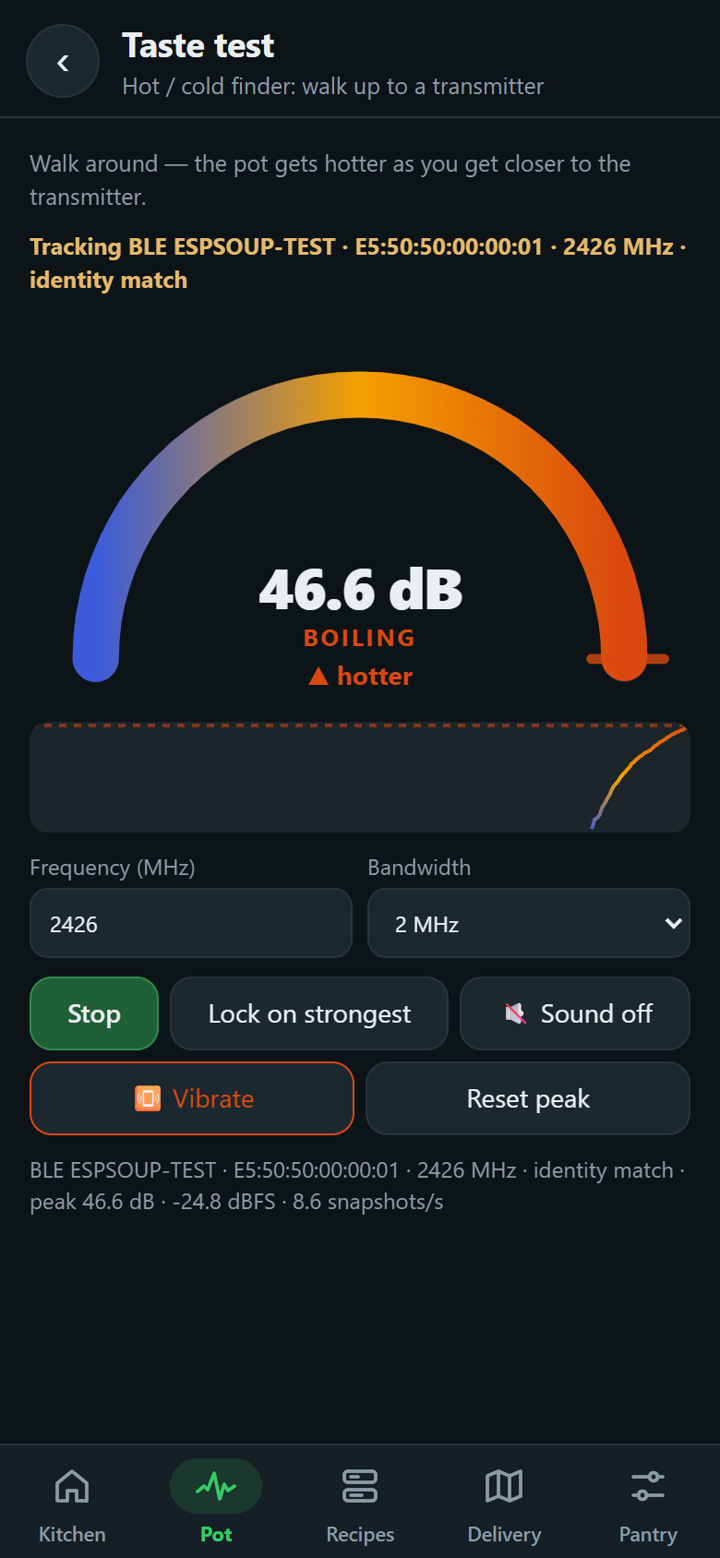
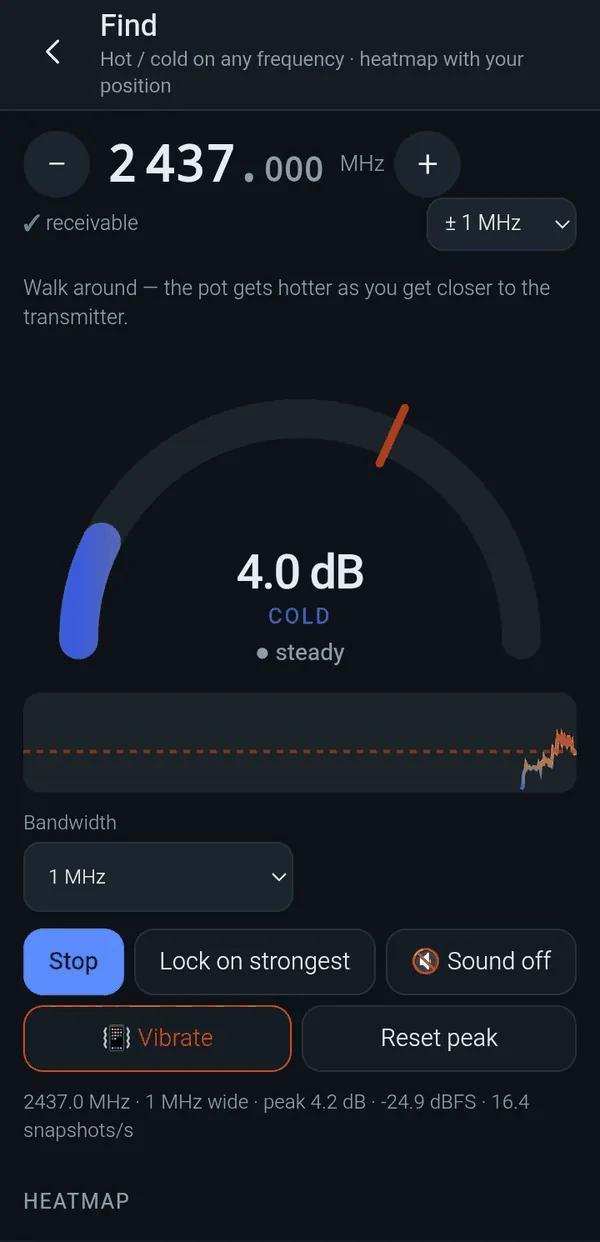
README: TV tool, new interface, colour, current status
New four-tab interface (Scan, Spectrum, Tools, Device), ESPsoup TV with
channel tables and rough colour, honest what-works table, firmware notes,
measuring tip. Screenshots replaced with the 0.12.2 interface.

Claude-Session: https://claude.ai/code/session_015VQQSR9m4bcAb5GdRP2dKC

diff --git a/README.md b/README.md
@@ -6,7 +6,7 @@
 <p align="center"><b>Scoop signals from the frequency soup.</b><br>
 A receive-only radio scanner app for the ESP32-C5 — Android, Windows and the browser.</p>
 
-<p align="center"><i>🍲 Private preview — not released yet.</i></p>
+<p align="center"><i>🍲 Preview · app 0.12.2 · the web app is live, Android and Windows apps are coming soon.</i></p>
 
 <p align="center">
   <a href="https://app.espsoup.com/"><img src="https://img.shields.io/badge/web%20app-app.espsoup.com-e8590c" alt="Web app"></a>
@@ -19,65 +19,152 @@ A receive-only radio scanner app for the ESP32-C5 — Android, Windows and the b
 
 The air around you is a soup of radio signals. ESPsoup turns a cheap **ESP32-C5** board, plugged into your phone or PC by USB,
 into a pocket spectrum scanner for the **2.4 GHz and 5 GHz bands**. It shows what's cooking and scoops out whatever it can decode —
-Bluetooth, Wi-Fi, Zigbee, Thread, drones, mobile cells, FPV video and more. Everything is decoded locally on your device, and ESPsoup never transmits.
+Bluetooth, Wi-Fi, Zigbee, Thread, drones, mobile cells, cars (ITS-G5) and live analog FPV video on its own little TV.
+Everything is decoded locally on your device, and ESPsoup never transmits.
 
-## Screenshots
+## Four tabs, two or three taps
 
-| Kitchen | Bluetooth + tracker warning | Drone Remote ID |
-|---|---|---|
-| <img src="assets/screenshots/kitchen.png" width="250"> | <img src="assets/screenshots/ble-tracker.png" width="250"> | <img src="assets/screenshots/remote-id.png" width="250"> |
-| *“Stir the pot” scans every recipe into one dashboard* | *Sensors, beacons and an AirTag “following you?” warning* | *Drone serial number, position, height, speed* |
+The 0.12 interface has four areas. Every function is at most two or three taps away.
 
-| Find (hot/cold) | Mobile cells | Signal classifier |
-|---|---|---|
-| <img src="assets/screenshots/find.png" width="250"> | <img src="assets/screenshots/lte-cell.png" width="250"> | <img src="assets/screenshots/classify.png" width="250"> |
-| *Walk up to one specific device, matched by its ID* | *LTE / 5G cell ID, bandwidth, signal quality* | *“What is this?” — LoRa, FSK, OFDM, radar …* |
-
-| Analog FPV video, assembled from snapshots | Live video (preview of an upcoming feature) |
+| Tab | What's in it |
 |---|---|
-| <img src="assets/screenshots/fpv-fullscreen.png" width="400"> | <img src="assets/screenshots/live-video.gif" width="300"> |
-| *5.8 GHz FPV test picture in fullscreen* | *FM video demodulated on the ESP32 itself, ~25 frames/s* |
+| **Scan** | Type a signal type (*ELRS*, *AirTag*, *HDZero* …) and search it in one tap — or tap ingredients and hit **Search ingredients (n)**, or just **Search everything**. Every find has **Find** and ▶. |
+| **Spectrum** | Live spectrum and waterfall. Type a frequency like in SDR software — `2437`, `5.8G`, `2437.5`. Frequencies the chip can't reach are marked, with the reason and the nearest receivable one. |
+| **Tools** | **TV**, Panorama (live, with its own start/stop), Wi-Fi channels (now and over 24 h), Find on any frequency with a GPS heatmap, Burst catcher, Map, Recordings, Identify. |
+| **Device** | Firmware flasher (backup first, every write verified), calibration, second board, notifications, MQTT export, settings. |
 
-<sub>Phone screenshots from a Redmi with an ESP32-C5 on USB-OTG. Test signals came from an ADALM-PLUTO signal generator;
-device addresses of real neighbours are not shown.</sub>
+### Scan
 
-## What works today
+| Ingredients | Signal-type search | Finds |
+|---|---|---|
+| <img src="assets/screenshots/scan-ingredients.png" width="250"> | <img src="assets/screenshots/scan-search-elrs.png" width="250"> | <img src="assets/screenshots/scan-finds.png" width="250"> |
+| *Tap ingredients → “Search ingredients (3)”* | *Type “ELRS” — band, classifier, one-tap search* | *Wi-Fi, Bluetooth, trackers — each with Find* |
 
-Verified over the air with test signals and real devices. Further formats listed in brackets are built in and tested with reference data.
+### Spectrum and Tools
 
-| | Signal | Frequency | What you see |
+| Type a frequency | Honest tuning | Panorama |
+|---|---|---|
+| <img src="assets/screenshots/freq-typing.png" width="250"> | <img src="assets/screenshots/freq-gap.png" width="250"> | <img src="assets/screenshots/pano-all.png" width="250"> |
+| *`5.8G` → 5800 MHz, UNII-3* | *3500 MHz is in the chip's gap — marked, with the nearest frequency* | *Live sweep over everything receivable* |
+
+| Tools | Find (hot/cold) | Wi-Fi channels |
+|---|---|---|
+| <img src="assets/screenshots/tools-tv.png" width="250"> | <img src="assets/screenshots/find.png" width="250"> | <img src="assets/screenshots/wifi-channels.png" width="250"> |
+| *TV, Panorama, Find, Burst catcher, Map, Recordings* | *Walk around — the pot gets hotter as you get closer* | *Occupancy now and over 24 h* |
+
+| Identify | Light theme | Measuring tip |
+|---|---|---|
+| <img src="assets/screenshots/identify.png" width="250"> | <img src="assets/screenshots/light-scan.png" width="250"> | <img src="assets/screenshots/airplane-hint.png" width="250"> |
+| *“What is this?” — classifier on any frequency* | *Light and dark* | *Airplane mode before measuring* |
+
+## 📺 ESPsoup TV
+
+**Tools → TV** is an analog video receiver. Pick a channel table — **Raceband, Fatshark, Boscam A / B / E, Lowband, 2.4 GHz AV** —
+or type any frequency. The picture starts at once (snow when there's nothing on air), with PAL / NTSC / auto,
+channel ◀ ▶, seek, an auto cycle with adjustable interval and *stop on a picture*, and fullscreen.
+
+| Raceband R5 | No signal = snow | Any frequency |
+|---|---|---|
+| <img src="assets/screenshots/tv-r5.png" width="250"> | <img src="assets/screenshots/tv-snow.png" width="250"> | <img src="assets/screenshots/tv-free-5800.png" width="250"> |
+| *5806 MHz, PAL, ~25 fps* | *Picture right away, even without a sender* | *5800 MHz typed in, NTSC detected* |
+
+| 2.4 GHz AV sender | Switching channels | Colour (rough) |
+|---|---|---|
+| <img src="assets/screenshots/tv-av-2414.png" width="250"> | <img src="assets/screenshots/tv-switch.gif" width="250"> | <img src="assets/screenshots/tv-colour-pal.png" width="250"> |
+| *AV1, 2414 MHz* | *R5 → R6 (empty) → R5* | *PAL colour bars, ESPsoup firmware* |
+
+| Colour in fullscreen | Live video, 2.4 GHz AV |
+|---|---|
+| <img src="assets/screenshots/tv-colour-fullscreen.jpg" width="400"> | <img src="assets/screenshots/live-video.gif" width="400"> |
+| *Rough PAL colour — NTSC works too* | *2434 MHz, demodulated on the ESP32 itself* |
+
+<img src="assets/screenshots/tv-52-channels.jpg" width="760" alt="Grid of 52 TV screenshots, one per receivable FPV and 2.4 GHz AV channel, each showing the ESPsoup test picture">
+
+*All 52 receivable channels with a picture: Raceband, Fatshark, Boscam A/B/E, Lowband (5362–5945 MHz) and 2.4 GHz AV (2414–2468 MHz).*
+
+**Tested with a lab signal generator:** 52 of 52 receivable channels gave a picture, about **25 frames/s** and **~7,900 lines/s**.
+The ESP32 demodulates the video itself — this needs the upcoming **ESPsoup firmware**; with the stock ESP-SDR firmware the picture builds up
+slowly from snapshots, on channels up to 5.75 GHz. Rough colour (PAL and NTSC) also comes with the ESPsoup firmware.
+The 1.2/1.3 GHz FPV band can't be received by the ESP32-C5, and digital systems (DJI, HDZero, Walksnail) are only recognised, without a picture.
+
+<sub>Phone screenshots from an Android phone with an ESP32-C5 on USB-OTG. Test pictures came from an ADALM-PLUTO signal generator;
+addresses of real neighbours are masked, and no map or heatmap of a real location is shown.</sub>
+
+## What works, what partly works, what doesn't
+
+The ESP32-C5 is a Wi-Fi chip, not a lab SDR. This is what ESPsoup really does with it — tested on real air and,
+where there was nothing on air to test with (video, RC links, ITS-G5), with an ADALM-PLUTO signal generator (October 2026).
+
+✅ works · ◐ partly (recognised, but not fully decoded or not reliable yet) · ❌ not possible · **ᶠ** needs the upcoming ESPsoup firmware (the stock ESP-SDR firmware does less)
+
+| | Signal / feature | Frequency | Notes |
 |---|---|---|---|
-| ✅ | Bluetooth LE advertising | 2402 / 2426 / 2480 MHz | names, addresses, manufacturer |
-| ✅ | BLE sensors & beacons | 2402 / 2426 / 2480 MHz | BTHome (°C, %RH, battery), iBeacon (+ Xiaomi, Govee, Ruuvi, Eddystone) |
-| ✅ | Tracker warning | 2402 / 2426 / 2480 MHz | AirTag / Find My “separated from owner” (+ SmartTag, Tile, Google) — local only |
-| ✅ | BLE 2M · extended advertising | 2404–2478 MHz | packets on the secondary channels |
-| ✅ | Drone Remote ID | 2402–2480 · 5745 MHz | via Bluetooth, Wi-Fi beacon, Wi-Fi NAN and legacy DJI beacons |
-| ✅ | Wi-Fi beacons (802.11b and g) | 2412–2472 MHz | network name, access point, channel, data rate |
-| ✅ | Wi-Fi extras | 2412–2472 MHz | ESP-NOW devices, anonymous count of searching phones, deauth-attack alarm |
-| ✅ | Zigbee / 802.15.4 | 2405–2480 MHz | network, addresses, Green Power switches |
-| ✅ | nRF24 · Hoymiles solar inverters | 2403–2480 MHz | serial number, messages |
-| ✅ | ANT+ | 2457 MHz | heart-rate sensors |
-| ✅ | LTE / 5G NR cells | 2130–2170 · 2620–2690 MHz | cell ID, bandwidth, operator |
-| ✅ | Analog FPV video (PAL / NTSC) | 5650–5745 MHz | channel, standard, fullscreen still picture |
-| ✅ | Analog camera finder · microwave oven | 2414–2470 MHz | wireless AV cameras, oven running |
-| ✅ | Signal classifier | 2.4 GHz · 5 GHz | LoRa (ExpressLRS, Tracer), Wi-Fi OFDM, DJI video link & DroneID, DVB-T video links, CW / AM / FM / SSB, analog video |
-| ✅ | Find | the signal's frequency | hot/cold finder on every result, following one device by its ID |
-| ✅ | Spectrum & waterfall | 2130–2730 · 4790–5745 MHz | live view, panorama sweep, Wi-Fi channel view, 24 h band log |
-| ◐ | RC links | 2400–2480 MHz | FrSky, FlySky, ELRS FLRC, Spektrum DSMX — detected, exact type not yet reliable |
-| ◐ | HDZero / Walksnail, pulsed radar | 5.6–5.9 GHz | detected, type still being tuned |
-| ◐ | BLE Coded (long range), Auracast, Thread / Matter | 2.4 GHz | decoders built, packets often longer than one capture |
+| | **Spectrum and tools** | | |
+| ✅ | Live spectrum, waterfall, frequency entry | 2.13–2.73 · 4.79–5.75 GHz | Up to 80 MHz wide; unreachable frequencies are refused with the reason |
+| ✅ᶠ | Spectrum above 5.75 GHz | 5.75–5.99 GHz | Upper 5.8 GHz band and ITS-G5 |
+| ✅ | Panorama live, own start/stop | any receivable range | About 15 sweeps/s over 2.4 GHz; gaps are skipped |
+| ✅ | Find (hot/cold) with GPS heatmap | any receivable frequency | Usable over about 25–30 dB; the heatmap stays on your device |
+| ✅ᶠ | Gap-free reception, burst catcher | same ranges | Stock ESP-SDR: snapshots with short gaps |
+| | **Bluetooth** | | |
+| ✅ | BLE advertising: names, sensors (BTHome, Xiaomi, Govee, Ruuvi), iBeacon, Eddystone | 2402 · 2426 · 2480 MHz | |
+| ✅ | AirTag and tracker warning | 2.4 GHz | AirTag, SmartTag, Tile, Google trackers — warns if one keeps showing up around you |
+| ✅ | BLE 2M and extended advertising | 2.4 GHz | |
+| ✅ᶠ | Bluetooth packet catcher, 60–120 packets/s | 2.4 GHz | Demodulated on the chip; stock ESP-SDR: fewer packets, from snapshots |
+| ◐ | BLE Coded (Long Range) | 2.4 GHz | Seen in the spectrum, not decoded yet |
+| ◐ | Bluetooth Classic | 2.4 GHz | Recognised by its hopping pattern, not decoded |
+| | **Wi-Fi and cars** | | |
+| ✅ | Wi-Fi 802.11b/g/a (incl. 5 GHz OFDM): network names from beacons | 2.4 · 5 GHz | 5 GHz channels above 5.75 GHz only with the ESPsoup firmware |
+| ✅ | ESP-NOW, searching phones (anonymous count), deauth alarm | 2.4 GHz | |
+| ✅ | Wi-Fi channel occupancy | 2.4 · 5 GHz | Now and over 24 hours |
+| ✅ᶠ | ITS-G5 / 802.11p (car-to-car V2X) | 5.855–5.925 GHz | Outside the stock ESP-SDR range |
+| | **Smart home and sensors** | | |
+| ✅ | Zigbee, Zigbee Green Power, Thread (802.15.4) | 2405–2480 MHz | |
+| ✅ | nRF24, Hoymiles solar inverters | 2.4 GHz | |
+| ✅ | ANT+ fitness sensors | 2457 MHz | |
+| ✅ | Microwave oven | ≈ 2.45 GHz | Recognised while it runs |
+| | **Drones and remote controls** | | |
+| ✅ | Drone Remote ID (Bluetooth, Wi-Fi beacon, Wi-Fi NAN) | 2.4 · 5 GHz | Drone and pilot position on the map |
+| ◐ | RC links: ExpressLRS, FLRC, Ghost, Tracer, FrSky, FlySky, DSMX, LoRa 2.4 | 2.4 GHz | Recognised by the classifier; exact link type sometimes unsure; control data not decoded |
+| ◐ | DJI drones (OcuSync, DroneID) | 2.4 · 5.8 GHz | Video link recognised; DroneID not detected over the air yet |
+| | **Video** | | |
+| ✅ᶠ | ESPsoup TV: Raceband, Fatshark, Boscam A/B/E, Lowband, 2.4 GHz AV or any frequency | 5362–5945 · 2414–2468 MHz | 52 of 52 channels with a picture, ~25 fps; seek, auto cycle, fullscreen |
+| ◐ᶠ | Colour in the TV picture (PAL / NTSC) | same | Rough colour; black and white is the reliable default |
+| ✅ᶠ | Analog FPV video and 2.4 GHz wireless cameras, live | 5.36–5.95 · 2.41–2.47 GHz | Stock ESP-SDR: picture builds up slowly, channels up to 5.75 GHz |
+| ◐ | Digital video: HDZero, Walksnail, OcuSync, DVB-T senders | 2.4 · 5.8 GHz | Recognised, but no picture — digital video is too much for the ESP32 |
+| | **Mobile network and the rest** | | |
+| ◐ | LTE / 5G NR cell identities | bands 1 and 7 (2.11–2.17 · 2.62–2.69 GHz) | Depends on your surroundings; also calibrates the board's crystal |
+| ✅ | Radar, FMCW, CW and NBFM carriers | 2.4 · 5 GHz | Recognised by their shape; nothing to decode |
+| | **Not possible with the ESP32-C5** | | |
+| ❌ | FM, DAB+, 433/868 MHz sensors, LoRa below 1 GHz, 1.2/1.3 GHz FPV, ADS-B, GPS, DECT, LTE bands 3/8/20 | below 2.1 GHz | The chip can't tune there |
+| ❌ | 5G n78 (3.5 GHz), C-band | 2.75–4.79 GHz | A gap in the tuning range |
+| ❌ | Wi-Fi 6E, 10 GHz, QO-100 | above 6 GHz | The radio ends below 6 GHz |
+| ❌ | Calls, audio, message contents | – | By design: ESPsoup only shows public broadcast information |
 
-**Not possible with this chip:** anything below about 2.1 GHz (ADS-B 1090 MHz, GPS, DECT, FM radio, 433/868 MHz sensors, LoRa 868),
-2.75–4.79 GHz (5G n78 at 3.5 GHz), and anything above 6 GHz. Following frequency-hopping links, listening to calls
-and reading encrypted content are not possible either — by design.
+**Bottom line:** a good 2.4/5 GHz scanner and decoder for about **2.13–2.73 GHz and 4.79–5.75 GHz** with the original ESP-SDR firmware,
+**up to 5.99 GHz** with the ESPsoup firmware — with live analog video, drone Remote ID and LTE/5G cell identities. It is not a broadband SDR.
+
+> **Measuring?** Put your phone in **airplane mode**, or at least switch off its Wi-Fi and Bluetooth — they transmit a few centimetres
+> from the ESP32 and would be the loudest ingredient in the soup. USB-OTG and GPS keep working. The app reminds you.
+
+## Firmware
+
+ESPsoup runs on the open-source **ESP-SDR firmware by ESPARGOS** (GPL-3.0), which turns the ESP32-C5's Wi-Fi radio into an I/Q receiver.
+Flash it once with the ESPARGOS web installer, or from **Device → Firmware** in ESPsoup: the flasher downloads it from ESPARGOS,
+backs up the board first and verifies every write.
+
+The **ESPsoup firmware** is based on ESP-SDR and will also be open source under GPL-3.0 — release coming soon. It adds:
+
+- **gap-free reception** instead of snapshots (burst catcher, packet catcher),
+- the **5.9 GHz extension** up to 5990 MHz (upper 5.8 GHz band, ITS-G5),
+- **video and Bluetooth demodulation on the chip** — that's what makes the live TV at ~25 frames/s possible.
 
 ## Coming next
 
-- **Live analog video at ~25 frames/s** and a **continuous Bluetooth packet catcher** (about 100× more packets than today),
-  both demodulated directly on the ESP32 — working in the lab, release pending.
-- **5.8 GHz upper band and ITS-G5 (5.9 GHz)** reception on supported boards.
-- Better identification of RC links (ExpressLRS, FrSky, FlySky, Ghost), Nordic 2 Mbit devices and Bluetooth Classic.
-- Public downloads of the Android and Windows apps. Today ESPsoup runs as a web app in Chrome / Edge.
+- **ESPsoup firmware** release (open source, GPL-3.0).
+- **Android app (APK)** and **Windows app** — coming soon. Today ESPsoup runs as a web app in Chrome / Edge at [app.espsoup.com](https://app.espsoup.com/) (0.12.2).
+- **Dual TV / diversity** with two boards — experimental, tested on the same channel so far.
+- Better colour in the TV picture.
+- Decoding BLE Long Range and DJI DroneID, surer identification of RC links.
 
 ## What you need
 
@@ -93,8 +180,9 @@ Any **ESP32-C5** board works — it is the only ESP32 with the 5 GHz radio ESPso
 Product photos come from Amazon.</sub>
 
 Also needed:
-- A USB-C data cable — plug into the board's **native USB** port. On Android, a USB-OTG cable or adapter.
-- The free **ESP-SDR firmware by ESPARGOS**, flashed once with their web installer or from ESPsoup's Pantry.
+- A USB-C data cable — plug into the board's **native USB** port, not the UART bridge port (CH340 etc.), which is too slow. On Android, a USB-OTG cable or adapter that carries data.
+- The ESP-SDR firmware (free, see [Firmware](#firmware)) — or the ESPsoup firmware once it is released.
+- On the PC: Chrome, Edge or another Chromium browser (Web Serial).
 
 ## Support
 
@@ -105,7 +193,9 @@ ESPsoup is a hobby project. If you like it, a small tip pays for test boards, an
 
 ## Status
 
-Private preview. Nothing is released yet, and a license has not been chosen.
+Preview. The web app at [app.espsoup.com](https://app.espsoup.com/) is free to use (0.12.2); the Android and Windows apps are not public yet.
+A license for the ESPsoup app has not been chosen yet. The firmware side is GPL-3.0: ESP-SDR by ESPARGOS is GPL-3.0,
+and the ESPsoup firmware, being based on it, will be published under GPL-3.0 as well.
 
 ESPsoup only receives. Rules on receiving radio signals and on what you may do with the information differ between countries — use it responsibly.
 ESPsoup is an independent project. It is not affiliated with Espressif Systems or with the ESPARGOS / ESP-SDR project. ESP32 is a trademark of Espressif Systems.
